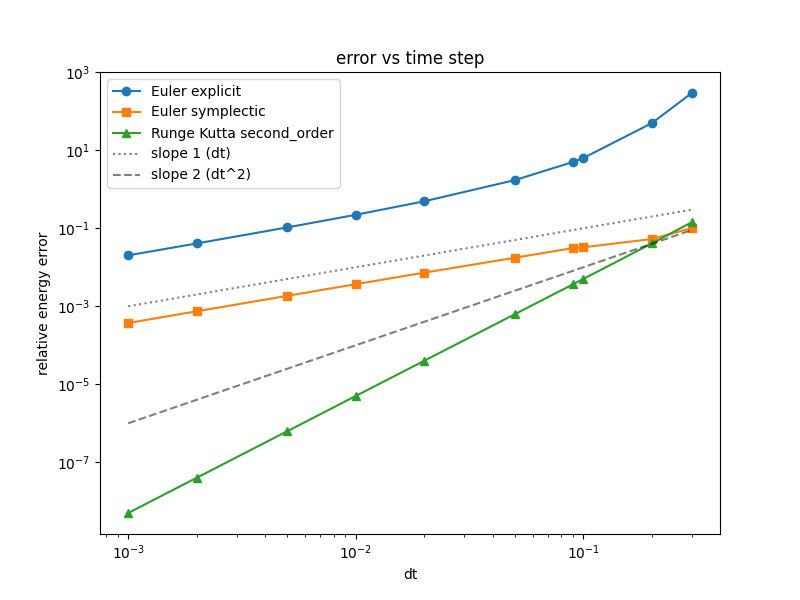
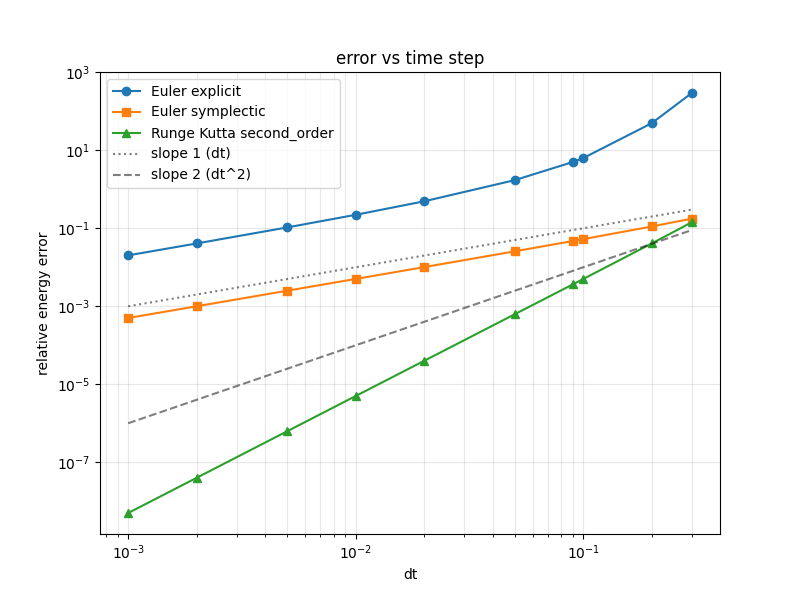
Debgging and Cleaning

Changed region(s): [[0.1562, 0.36, 0.875, 0.54]]

diff --git a/Spring_Oscillator/code.py b/Spring_Oscillator/code.py
@@ -17,9 +17,9 @@ E_0 = 0.5 * m * v_0 ** 2 + 0.5 * k * x_0 ** 2
 
 
 # Force function (Hooke's law: F = -k*x)
-# defined at the top so all integrators can use it to use acceleration 
-def calc_force(x=0, v=0, initial_t=0):
-    return (-k * x)
+# defined at the top so all integrators can use it to use acceleration
+def calc_force(x, v=None, t=None):
+    return -k * x
 
 
 # Euler Explicit function
@@ -79,9 +79,11 @@ def runge_kutta_second_order(x_0, v_0, dt, N):
     # Just get x and y updated based on second order runge kutta algorithm
     return x, v
 
+
 # Energy function
 def energy(x, v):
     return 0.5 * m * v**2 + 0.5 * k * x**2
+
 
 # Step size and total time to start comparing all three methods
 dt = 0.01
@@ -99,7 +101,7 @@ x_true = x_0 * np.cos(omega * t)
 
 # plot x(t)
 # note: I ran the code and when you zoom it is showing that exact and RK2 are nearly close rather than other methods
-plt.figure(figsize=(10,4))
+plt.figure(figsize=(10, 4))
 plt.plot(t, x_true, 'k--', label='exact', alpha=0.6)
 plt.plot(t, x1, label='Euler explicit')
 plt.plot(t, x2, label='Euler symplectic')
@@ -108,8 +110,8 @@ plt.xlabel('t')
 plt.ylabel('x(t)')
 plt.title('position vs time')
 plt.legend()
-plt.savefig("Position vs Time.png")
 plt.grid(alpha=0.3)
+plt.savefig("Position vs Time.png")
 plt.show()
 
 
@@ -120,7 +122,7 @@ E2 = energy(x2, v2)
 E3 = energy(x3, v3)
 
 # When I plotted RK2 stays close to E_0 (interesting)
-plt.figure(figsize=(10,4))
+plt.figure(figsize=(10, 4))
 plt.plot(t, E1, label='Euler explicit')
 plt.plot(t, E2, label='Euler symplectic')
 plt.plot(t, E3, label='Runge Kutta second_order')
@@ -129,8 +131,8 @@ plt.xlabel('t')
 plt.ylabel('E(t)')
 plt.title('energy vs time')
 plt.legend()
-plt.savefig("energy vs time.png")
 plt.grid(alpha=0.3)
+plt.savefig("energy vs time.png")
 plt.show()
 
 # try different time steps and see how the error changes
@@ -152,36 +154,52 @@ for dt_i in time_steps:
     x2, v2 = calc_euler_symplectic(x_0, v_0, dt_i, num_steps)
     x3, v3 = runge_kutta_second_order(x_0, v_0, dt_i, num_steps)
 
-    # get energy at the final step
-    E_final_1 = energy(x1[-1], v1[-1])
-    E_final_2 = energy(x2[-1], v2[-1])
-    E_final_3 = energy(x3[-1], v3[-1])
-
-    # relative error = |final energy - initial energy| / initial energy
-    error_explicit.append(abs(E_final_1 - E_0) / E_0)
-    error_symplectic.append(abs(E_final_2 - E_0) / E_0)
-    error_rk2.append(abs(E_final_3 - E_0) / E_0)
+    # relative error = max |E - E_0| / E_0
+    error_explicit.append(np.max(np.abs(energy(x1, v1) - E_0)) / E_0)
+    error_symplectic.append(np.max(np.abs(energy(x2, v2) - E_0)) / E_0)
+    error_rk2.append(np.max(np.abs(energy(x3, v3) - E_0)) / E_0)
 
 # convert to arrays so we can plot reference lines easily
 time_steps = np.array(time_steps)
 
 # Plot on log-log scale
-# After i plotted # both Eulers look like slope 1, so first order
-# RK2 looks like slope 2, so second order
-plt.figure(figsize=(8,6))
+plt.figure(figsize=(8, 6))
 plt.loglog(time_steps, error_explicit, 'o-', label='Euler explicit')
 plt.loglog(time_steps, error_symplectic, 's-', label='Euler symplectic')
 plt.loglog(time_steps, error_rk2, '^-', label='Runge Kutta second_order')
 
-plt.loglog(time_steps, time_steps, 'k:', alpha = 0.5, label='slope 1 (dt)')
-plt.loglog(time_steps, time_steps ** 2, 'k--', alpha = 0.5, label='slope 2 (dt^2)')
+plt.loglog(time_steps, time_steps, 'k:', alpha=0.5, label='slope 1 (dt)')
+plt.loglog(time_steps, time_steps ** 2, 'k--', alpha=0.5, label='slope 2 (dt^2)')
 
 plt.xlabel('dt')
 plt.ylabel('relative energy error')
 plt.title('error vs time step')
 plt.legend()
-plt.savefig("error vs time step.png")
 plt.grid(alpha=0.3, which='both')
+plt.savefig("error vs time step.png")
+plt.show()
+
+
+# subtract off the exactly known energy to see the symplectic Euler residual
+# the residual should match (dt/2) * k * x * v, which tells us the correction
+dt_test = 0.1
+run_time = 30.0
+num_steps = int(run_time / dt_test)
+t_test = np.linspace(0, num_steps * dt_test, num_steps + 1)
+x_sym, v_sym = calc_euler_symplectic(x_0, v_0, dt_test, num_steps)
+
+residual = energy(x_sym, v_sym) - E_0
+prediction = 0.5 * dt_test * k * x_sym * v_sym
+
+plt.figure(figsize=(10, 5))
+plt.plot(t_test, residual, label='H - E_0')
+plt.plot(t_test, prediction, '--', label='(dt/2) k x v')
+plt.xlabel('t')
+plt.ylabel('energy residual')
+plt.title('symplectic Euler residual vs predicted correction')
+plt.legend()
+plt.grid(alpha=0.3)
+plt.savefig("symplectic residual.png")
 plt.show()
 
 
@@ -194,7 +212,7 @@ def modified_H(x, v, dt):
 dt_list = [0.2, 0.1, 0.05]
 run_time = 30.0
 
-plt.figure(figsize=(10,5))
+plt.figure(figsize=(10, 5))
 
 for dt_i in dt_list:
     num_steps = int(run_time / dt_i)
@@ -207,12 +225,12 @@ for dt_i in dt_list:
     H_regular = energy(x, v)
     H_prime = modified_H(x, v, dt_i)
 
-    # plot deviation from E_0
+    # subtract the exact energy to examine the symplectic Euler residual
     plt.plot(t_i, H_regular - E_0, alpha=0.4, label=f'H, dt={dt_i}')
     plt.plot(t_i, H_prime - E_0, label=f"H', dt={dt_i}")
 
 plt.xlabel('t')
-plt.ylabel('energy = E_0')
+plt.ylabel('energy - E_0')
 plt.title('regular vs modified Hamiltonian')
 plt.legend(fontsize=8)
 plt.grid(alpha=0.3)
